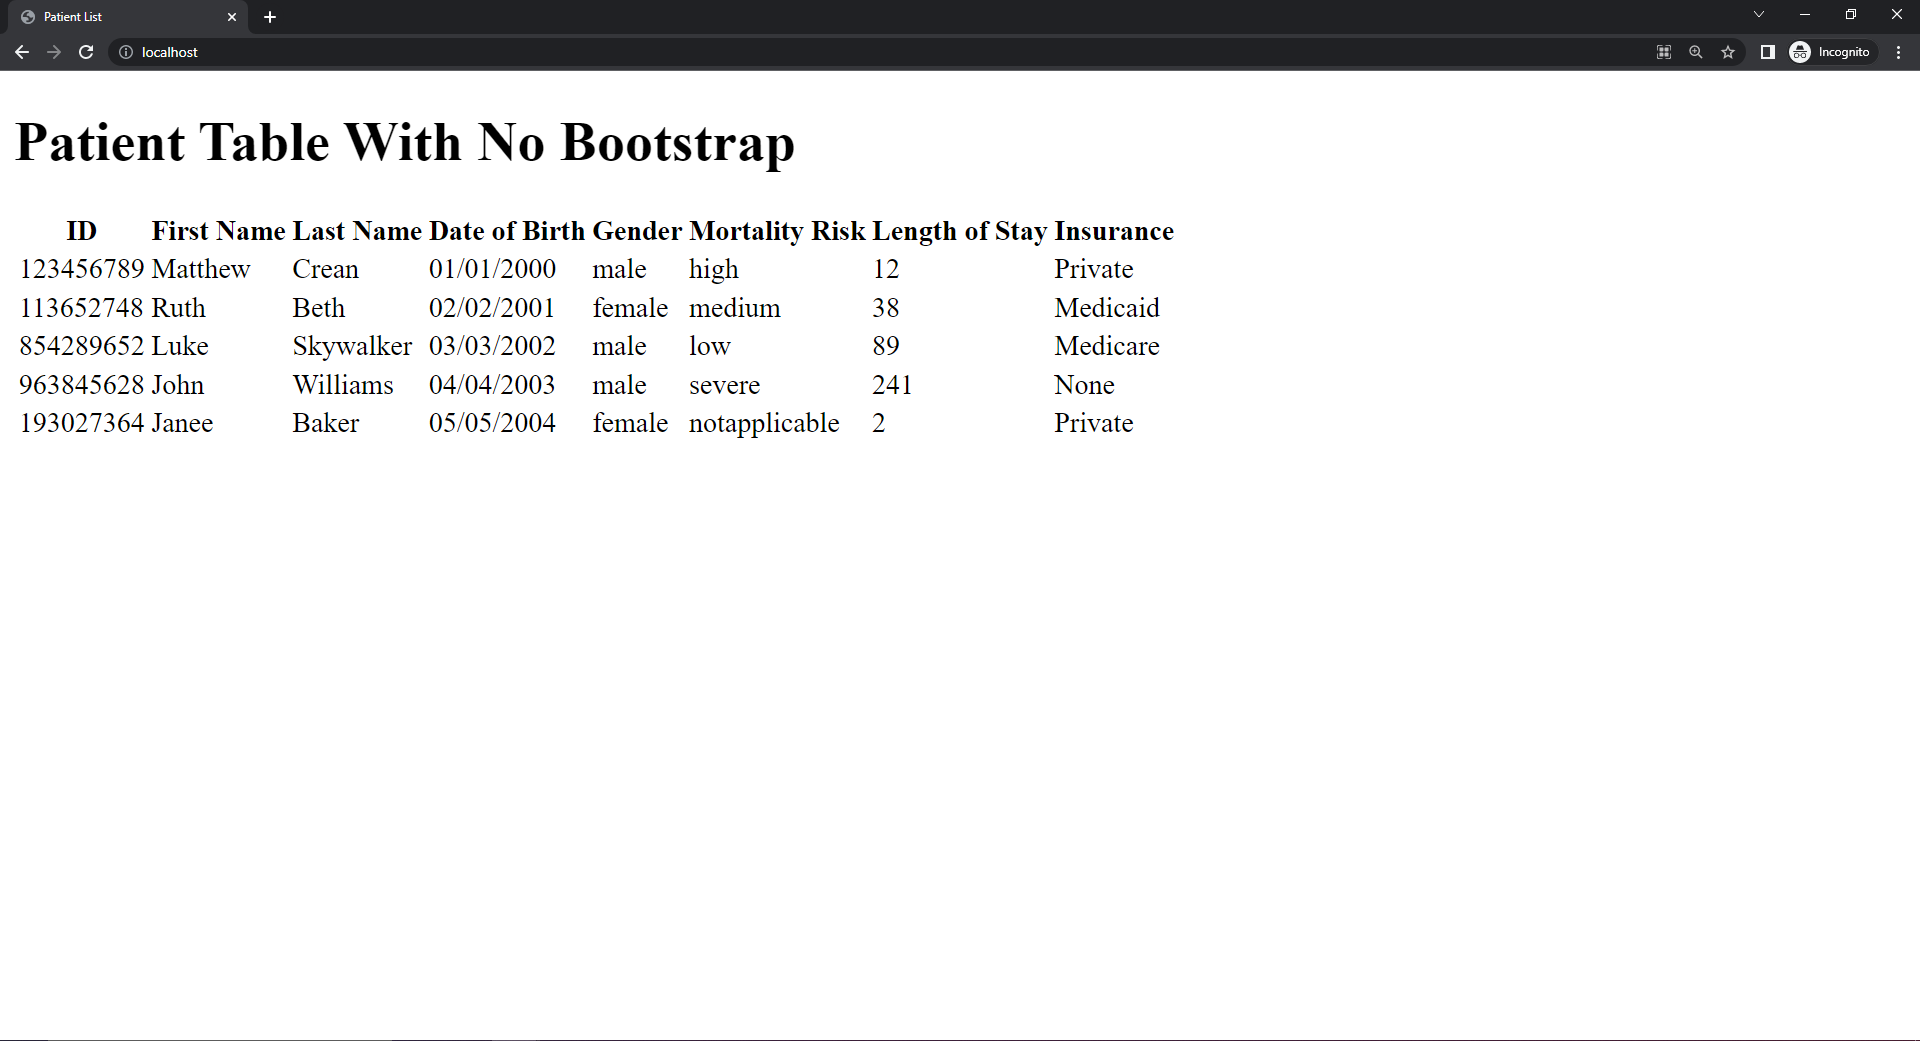
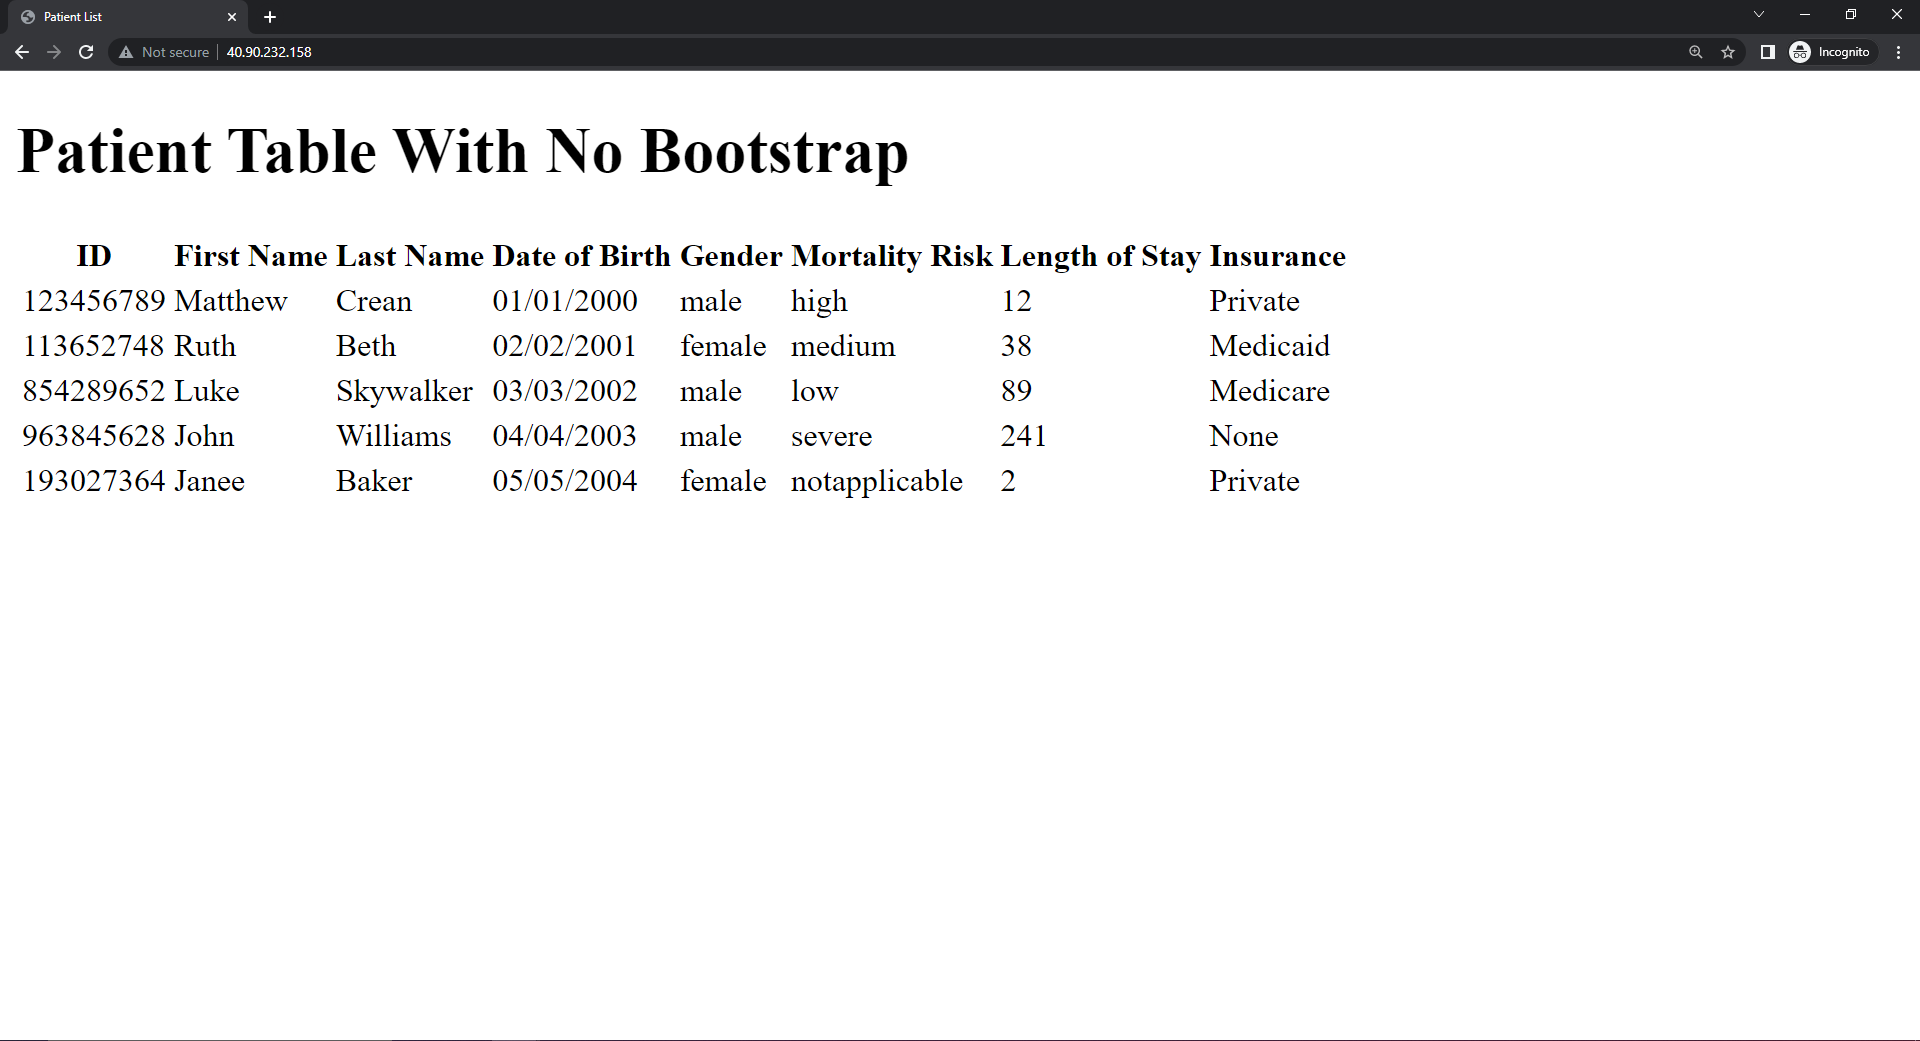
Update

diff --git a/README.md b/README.md
@@ -8,4 +8,7 @@ Create a new github repo called ‘flask-with-db’
 
 Setup a local DBs on your machine(s) using SQLITE. Create an SQLite DB that contains a patient table and a minimum of 4 additional columns for patient details beyond what I provided (MRN, first and last name, DOB). Create these new fake patients/table using SQLalchemy; create a file called creatDB.py in your repo that contains the source code for how these patients were created. Connect your flask app to a local SQLite DB that is within your repo folder. Inside your flask app, create a new route called ‘/patients’. Within the patient-patients route, display the list of patients retrieve from the SQlite DB. Deploy to Azure or GCP, insert in IP of machines in readme.md file in repo
 
+Azure VM
+- IP Address: 40.90.232.158
+
 
